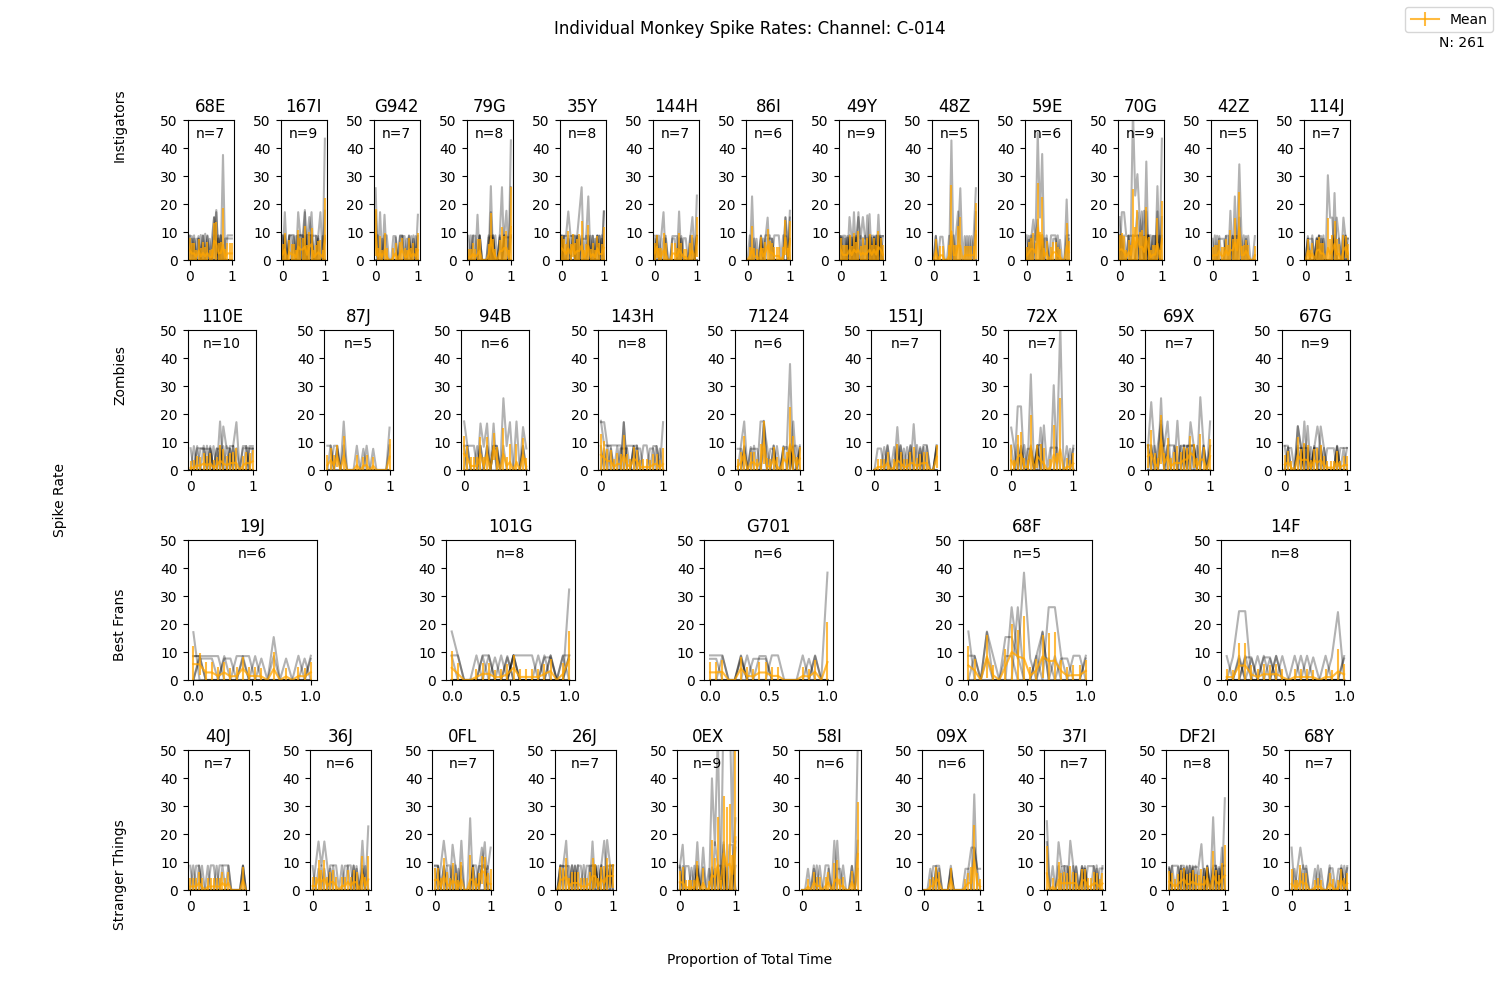
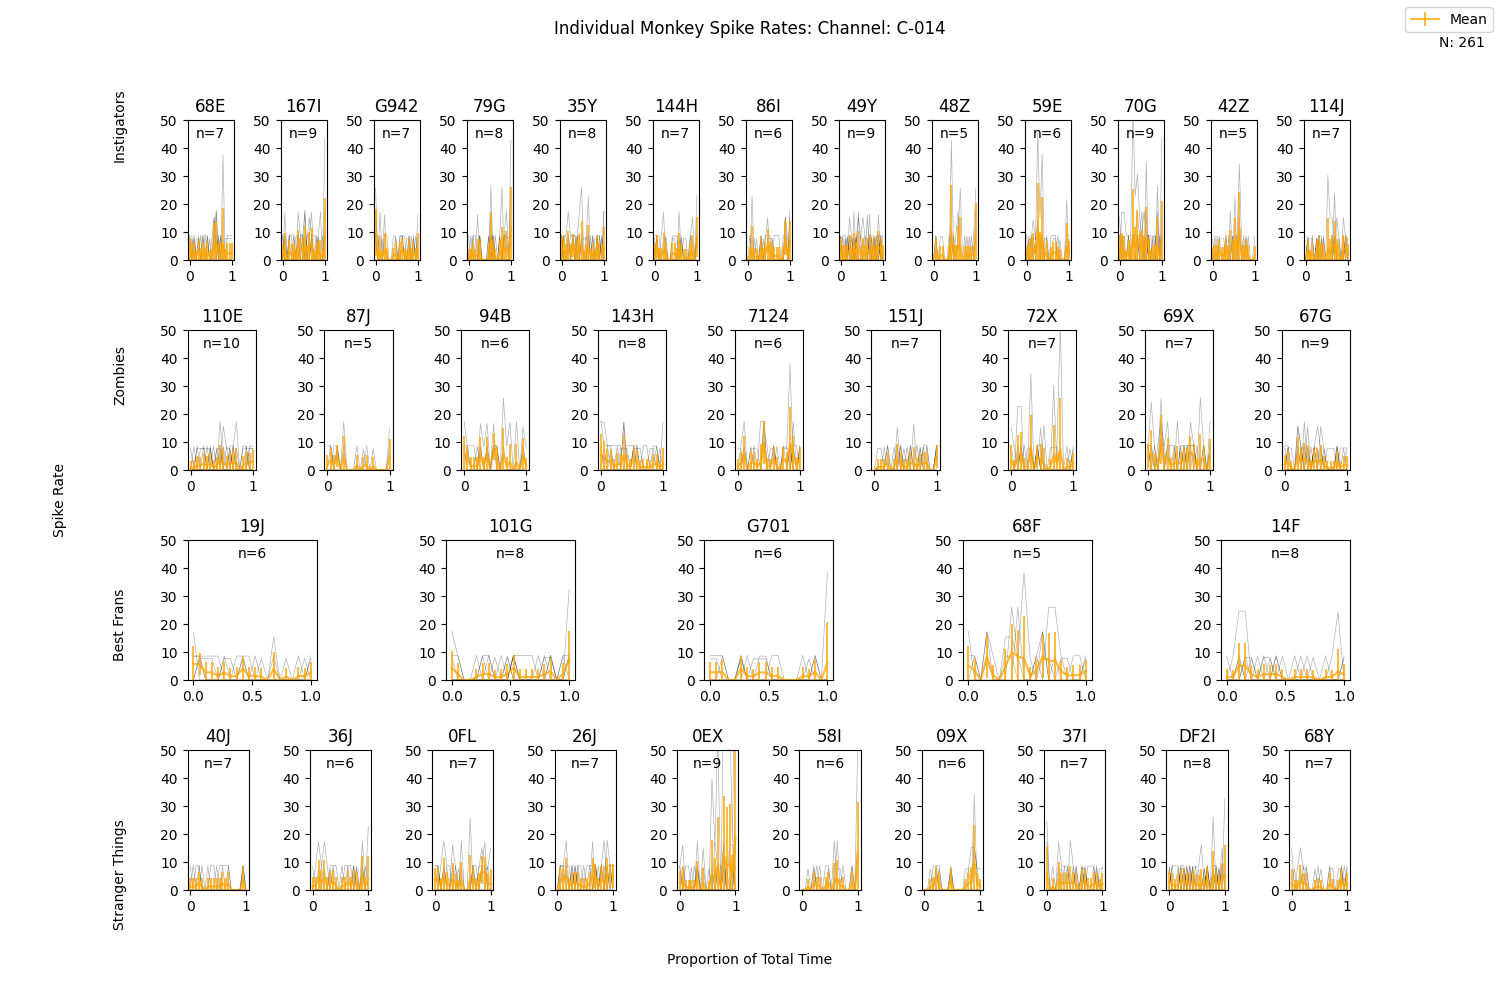
rasters

diff --git a/EStimShapeAnalysis/src/julie/single_channel_analysis.py b/EStimShapeAnalysis/src/julie/single_channel_analysis.py
@@ -12,21 +12,87 @@ from intan.channels import Channel
 
 
 def main():
-    experiment_data_filename = "1694809452469250_230915_162413.pk1"
+    experiment_data_filename = "2023-09-12_16-00-00_to_23-59-59.pk1"
+    experiment_name = experiment_data_filename.split(".")[0]
     file_path = "/home/r2_allen/git/EStimShape/EStimShapeAnalysis/compiled/julie/%s" % experiment_data_filename
-    plot_channel(file_path,
-                 channel=Channel.C_014)
+    raw_data = pd.read_pickle(file_path)
+    # plot_channel_histograms(raw_data,
+    #                         channel=Channel.C_025)
+    plot_raster_for_monkeys(raw_data, channel=Channel.C_026,
+                            experiment_name=experiment_name)
 
 
-def plot_channel(path_to_data_pickle_file, channel):
-    data = pd.read_pickle(path_to_data_pickle_file)
+def plot_raster_for_monkeys(raw_data, channel, experiment_name=None):
+    channel_data = extract_target_channel_data(channel, raw_data)
+    unique_monkey_groups = channel_data['MonkeyGroup'].dropna().unique().tolist()
+    N = len(channel_data)
 
+    max_rows = 0
+    for group_name in unique_monkey_groups:
+        group_data = channel_data[channel_data['MonkeyGroup'] == group_name]
+        unique_monkeys = group_data['MonkeyName'].dropna().unique().tolist()
+        max_rows = max(max_rows, len(unique_monkeys))
+
+    fig = plt.figure(figsize=(15 * len(unique_monkey_groups), 35 * max_rows))
+
+    row_idx = 0
+
+    for col_idx, group_name in enumerate(unique_monkey_groups):
+        group_data = channel_data[channel_data['MonkeyGroup'] == group_name]
+        unique_monkeys = group_data['MonkeyName'].dropna().unique().tolist()
+
+        for row_idx, monkey_name in enumerate(unique_monkeys):
+            monkey_data = group_data[group_data['MonkeyName'] == monkey_name]
+
+            ax = fig.add_subplot(max_rows, len(unique_monkey_groups), row_idx * len(unique_monkey_groups) + col_idx + 1)
+
+            filtered_spike_times_list = []
+            for idx, row in monkey_data.iterrows():
+                spike_times = row[f'SpikeTimes_{channel.value}']
+                epoch_start, epoch_stop = row['EpochStartStop']
+
+                # Filter spikes based on EpochStartStop and subtract the epoch start time
+                filtered_spike_times = [spike - epoch_start for spike in spike_times if
+                                        epoch_start <= spike <= epoch_stop]
+                filtered_spike_times_list.append(filtered_spike_times)
+
+            ax.eventplot(filtered_spike_times_list, color='black', linewidths=0.25)
+            ax.set_xlim(0, 1.0)
+            ax.set_yticks([len(filtered_spike_times_list)])
+            # Place the title text to the right of the subplot
+            ax.text(1.05, 0.5, f"{monkey_name}", transform=ax.transAxes, ha='left', va='center', fontsize=14)
+
+        fig.text(0.5 / len(unique_monkey_groups) + col_idx / len(unique_monkey_groups), 0.95, f'{group_name}',
+                 ha='center', va='center')
+
+    # fig.text(0.5, 0.01, 'Monkey Groups', ha='center', va='center')
+    fig.text(0.5, 0.05, 'Time (s)', ha='center', va='center', rotation='horizontal')
+    fig.text(0.99, 0.95, f'N: {N}', ha='right', va='bottom')
+    fig.suptitle(f'Raster Plots for Individual Monkeys: Channel: {channel.value}')
+
+    plt.subplots_adjust(hspace=1.0, wspace=1.0)
+    plt.show()
+
+    ## SAVE PLOTS
+    base_save_dir = "/home/r2_allen/git/EStimShape/EStimShapeAnalysis/plots/julie"
+    if experiment_name is not None:
+        save_dir = os.path.join(base_save_dir, experiment_name)
+        os.makedirs(save_dir, exist_ok=True)
+
+        # Save individual plot
+        individual_save_path = os.path.join(save_dir, f"{channel.name}_raster.png")
+        fig.savefig(individual_save_path)
+
+
+    return fig
+
+
+def plot_channel_histograms(data, channel):
     ## NOISE FILTERING
     # data = remove_noisy_data(data, 10, 100)
 
-
     ## CHANNEL SPECIFIC ANALYSIS
-    num_bins = 20
+    num_bins = 10
     channel_data = extract_target_channel_data(channel, data)
     channel_data = calculate_spikerates_per_bin(channel_data, channel, num_bins)
 
@@ -35,20 +101,21 @@ def plot_channel(path_to_data_pickle_file, channel):
     group_plot = plot_average_among_groups(channel_data, channel)
 
     ## SAVE PLOTS
-    base_save_dir = "/home/r2_allen/git/EStimShape/EStimShapeAnalysis/plots/julie"
-    experiment_name = path_to_data_pickle_file.split("/")[-1].split(".")[0]
-    save_dir = os.path.join(base_save_dir, experiment_name)
-    os.makedirs(save_dir, exist_ok=True)
-
+    # base_save_dir = "/home/r2_allen/git/EStimShape/EStimShapeAnalysis/plots/julie"
+    # experiment_name = path_to_data_pickle_file.split("/")[-1].split(".")[0]
+    # save_dir = os.path.join(base_save_dir, experiment_name)
+    # os.makedirs(save_dir, exist_ok=True)
+    #
     # Save individual plot
-    individual_save_path = os.path.join(save_dir, f"{channel.name}_individual.png")
-    individual_plot.savefig(individual_save_path)
-
+    # individual_save_path = os.path.join(save_dir, f"{channel.name}_individual.png")
+    # individual_plot.savefig(individual_save_path)
+    #
     # Save group plot
-    group_save_path = os.path.join(save_dir, f"{channel.name}_group.png")
-    group_plot.savefig(group_save_path)
+    # group_save_path = os.path.join(save_dir, f"{channel.name}_group.png")
+    # group_plot.savefig(group_save_path)
 
     plt.show()
+
 
 def remove_noisy_data(df: pd.DataFrame, num_bins: int, threshold: float, channel_threshold: int) -> pd.DataFrame:
     """
@@ -100,6 +167,7 @@ def remove_noisy_data(df: pd.DataFrame, num_bins: int, threshold: float, channel
     df_filtered = df.drop(rows_to_drop)
 
     return df_filtered
+
 
 def plot_individual_monkeys(channel_data, channel):
     num_groups = channel_data['MonkeyGroup'].nunique()
@@ -153,8 +221,9 @@ def plot_individual_monkeys(channel_data, channel):
 
     plt.subplots_adjust(hspace=0.5, wspace=1.0)
 
-    fig.canvas.mpl_connect('button_press_event', on_click)
+    fig.canvas.mpl_connect('button_press_event', on_click_histo)
     return fig
+
 
 def plot_single_monkey(ax, monkey_data, monkey_name, x_proportion, ymax):
     spike_rate_arrays = np.vstack(monkey_data['BinnedSpikeRates'])
@@ -162,9 +231,9 @@ def plot_single_monkey(ax, monkey_data, monkey_name, x_proportion, ymax):
     mean_spike_rates = np.mean(spike_rate_arrays, axis=0)
     std_spike_rates = np.std(spike_rate_arrays, axis=0)
     for spike_rates in spike_rate_arrays:
-        ax.plot(x_proportion, spike_rates, color='black', alpha=0.3)
+        ax.plot(x_proportion, spike_rates, color='black', alpha=0.3, linewidth=0.75)
     err_bar = ax.errorbar(x_proportion, mean_spike_rates, yerr=std_spike_rates, color='orange', alpha=0.75,
-                          label='Mean')
+                          label='Mean', elinewidth=0.8)
     ax.set_ylim(0, ymax)
     ax.set_title(f"{monkey_name}")
     # Add the number of traces to the top middle of each subplot
@@ -172,7 +241,7 @@ def plot_single_monkey(ax, monkey_data, monkey_name, x_proportion, ymax):
     return err_bar
 
 
-def on_click(event):
+def on_click_histo(event):
     ax = event.inaxes
     if ax is not None:
         fig, new_ax = plt.subplots()
@@ -192,7 +261,7 @@ def on_click(event):
 
         # print("Shapes:", std_err.shape, mean_ydata.shape)  # Debugging line
 
-        new_ax.errorbar(mean_xdata, mean_ydata,  color='orange', alpha=0.75, label='Mean')
+        new_ax.errorbar(mean_xdata, mean_ydata, color='orange', alpha=0.75, label='Mean')
 
         new_ax.set_title(ax.get_title())
         new_ax.set_ylim(ax.get_ylim())
@@ -235,24 +304,6 @@ def plot_average_among_groups(channel_data, channel):
     return fig
 
 
-def calculate_binned_spike_rate(spikes, epoch, num_bins):
-    if spikes is None or epoch is None:
-        return [0.0] * num_bins
-
-    start_time, end_time = epoch
-    total_duration = end_time - start_time
-    bin_duration = total_duration / num_bins
-    binned_spike_rates = []
-
-    for i in range(num_bins):
-        bin_start = start_time + i * bin_duration
-        bin_end = bin_start + bin_duration
-        spike_rate = calculate_spike_rate(spikes, (bin_start, bin_end))
-        binned_spike_rates.append(spike_rate)
-
-    return np.array(binned_spike_rates)
-
-
 def calculate_spike_rate(spikes: list, time_range: tuple) -> float:
     """
     Calculate the spike rate between two timestamps.
@@ -292,6 +343,24 @@ def calculate_spikerates_per_bin(channel_data, channel, num_bins):
         axis=1
     )
     return channel_data
+
+
+def calculate_binned_spike_rate(spikes, epoch, num_bins):
+    if spikes is None or epoch is None:
+        return [0.0] * num_bins
+
+    start_time, end_time = epoch
+    total_duration = end_time - start_time
+    bin_duration = total_duration / num_bins
+    binned_spike_rates = []
+
+    for i in range(num_bins):
+        bin_start = start_time + i * bin_duration
+        bin_end = bin_start + bin_duration
+        spike_rate = calculate_spike_rate(spikes, (bin_start, bin_end))
+        binned_spike_rates.append(spike_rate)
+
+    return np.array(binned_spike_rates)
 
 
 if __name__ == '__main__':
